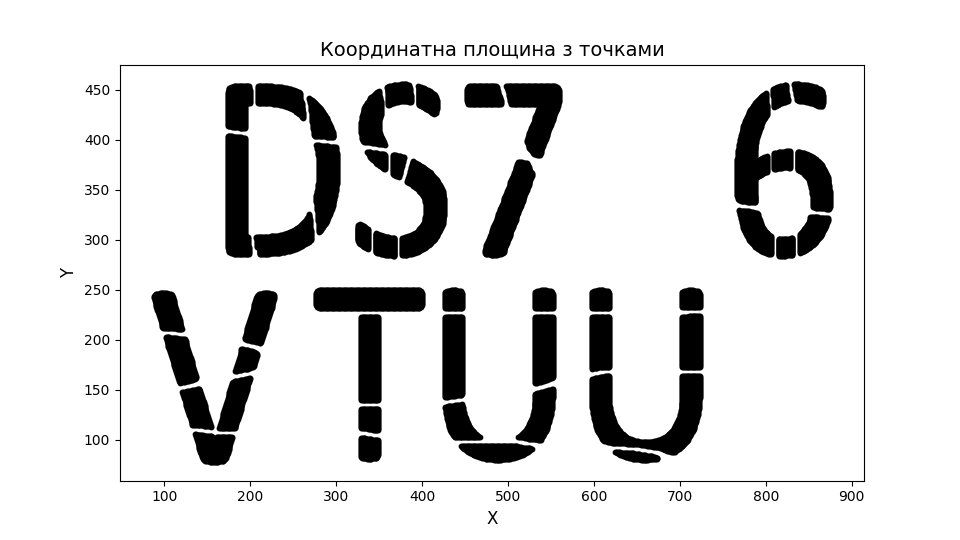
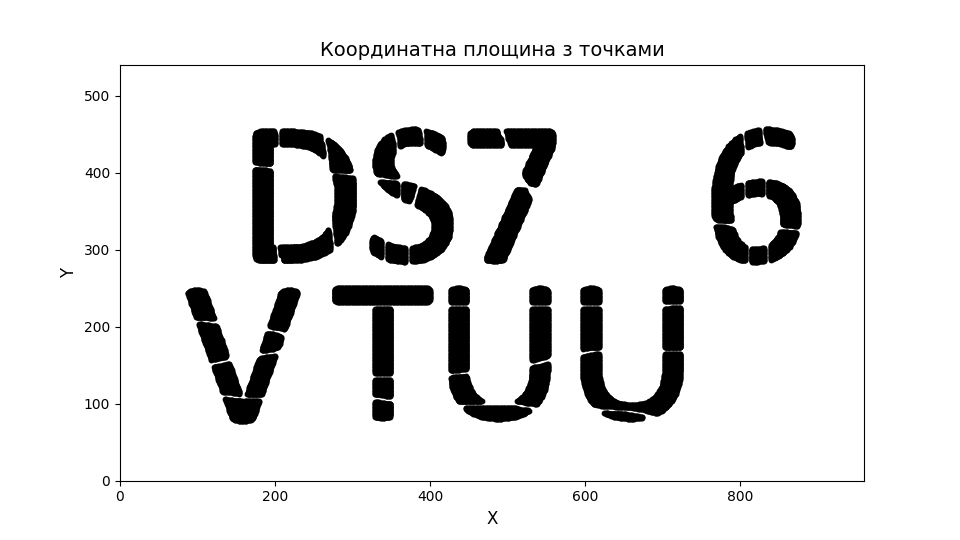
changes
removed unnecessary lines of code
added schedule restrictions

diff --git a/Code.py b/Code.py
@@ -9,39 +9,17 @@ def read_dataset(file_path):
                 points.append((x, y))
     return points
 
-def plot_points_and_save(dataset_path, output_path):
-    """
-    Відображає точки з датасету на координатній площині та зберігає графік у файл.
-
-    Функція зчитує пари координат точок із заданого текстового файлу, будує графік із точками 
-    на координатній площині, показує його на екрані та зберігає у файл у форматі PNG.
-
-    Параметри:
-    -----------
-    dataset_path : str
-        Шлях до текстового файлу, який містить координати точок .
-    output_path : str
-        Шлях до файлу для збереження зображення.
-    """
-    
+# функція для виведення точок на екран та збереження у файл png
+def plot_points_and_save(dataset_path, output_path): 
     # Зчитуємо координати
     points = read_dataset(dataset_path)
-    
-    # Якщо немає точок у файлі
-    if not points:
-        print("Файл порожній або не містить правильних даних.")
-        return
-    
-    #Витягуємо координати X і Y
     x_coords, y_coords = zip(*points)
     
     #Створюємо полотно
     canvas_width, canvas_height = 960, 540
-    dpi = 100  # Щільність точок на дюйм
+    dpi = 100 
     figsize = (canvas_width / dpi, canvas_height / dpi)
-
     plt.figure(figsize = figsize)
-
 
     #виводимо точки
     plt.scatter(x_coords, y_coords, color = 'black', s = 10)
@@ -50,6 +28,8 @@ def plot_points_and_save(dataset_path, output_path):
     plt.title("Координатна площина з точками", fontsize = 14)
     plt.xlabel("X", fontsize = 12)
     plt.ylabel("Y", fontsize = 12)
+    plt.xlim(0, canvas_width)
+    plt.ylim(0, canvas_height)
 
     #Зберігаємо результат у файл
     plt.savefig(output_path, dpi = dpi)  # Збереження з роздільною здатністю 96 DPI
